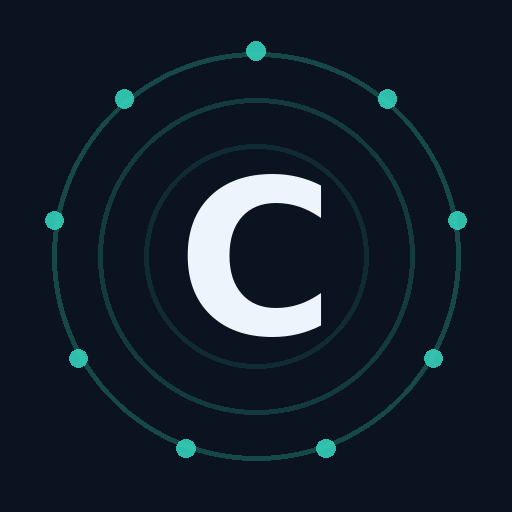
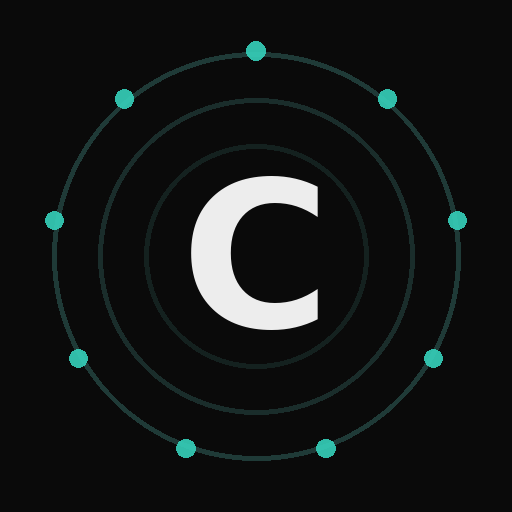
Recentre the mark and put it on the approved palette
The monogram sat visibly high and left of centre because its position was
computed from a bounding box measured off the text origin. anchor="mm" centres
on the glyph's own metrics instead.

The icon and banner now use the same six values as the portal: #0A0A0A
background, #141414 surface, #EDEDED text, #8A8A8A secondary, #262626 hairlines
and the single accent #35D0BA.

210 passed, 3 live skipped.

diff --git a/scripts/make_brand_assets.py b/scripts/make_brand_assets.py
@@ -25,12 +25,12 @@ from PIL import Image, ImageDraw, ImageFont
 REPO_ROOT = Path(__file__).resolve().parents[1]
 ASSETS = REPO_ROOT / "assets"
 
-BACKGROUND = (11, 18, 32)
-SURFACE = (18, 28, 48)
+BACKGROUND = (10, 10, 10)
+SURFACE = (20, 20, 20)
 ACCENT = (53, 208, 186)
-ACCENT_DIM = (30, 110, 104)
-TEXT = (238, 244, 252)
-MUTED = (138, 156, 178)
+ACCENT_DIM = (46, 92, 86)
+TEXT = (237, 237, 237)
+MUTED = (138, 138, 138)
 
 FONT_CANDIDATES = (
     "/usr/share/fonts/truetype/dejavu/DejaVuSans-Bold.ttf",
@@ -68,16 +68,11 @@ def make_icon(path: Path, size: int = 512) -> None:
             fill=ACCENT + (230,),
         )
 
-    # The monogram.
-    font = load_font(int(size * 0.42))
-    text = "C"
-    left, top, right, bottom = draw.textbbox((0, 0), text, font=font)
-    draw.text(
-        (centre - (right - left) / 2 - left, centre - (bottom - top) / 2 - top),
-        text,
-        font=font,
-        fill=TEXT,
-    )
+    # The monogram. anchor="mm" centres on the glyph's own metrics rather than
+    # on a bounding box computed from the origin, which is why the first version
+    # sat visibly high and left of centre.
+    font = load_font(int(size * 0.40))
+    draw.text((centre, centre), "C", font=font, fill=TEXT, anchor="mm")
 
     path.parent.mkdir(parents=True, exist_ok=True)
     image.save(path, "PNG")
